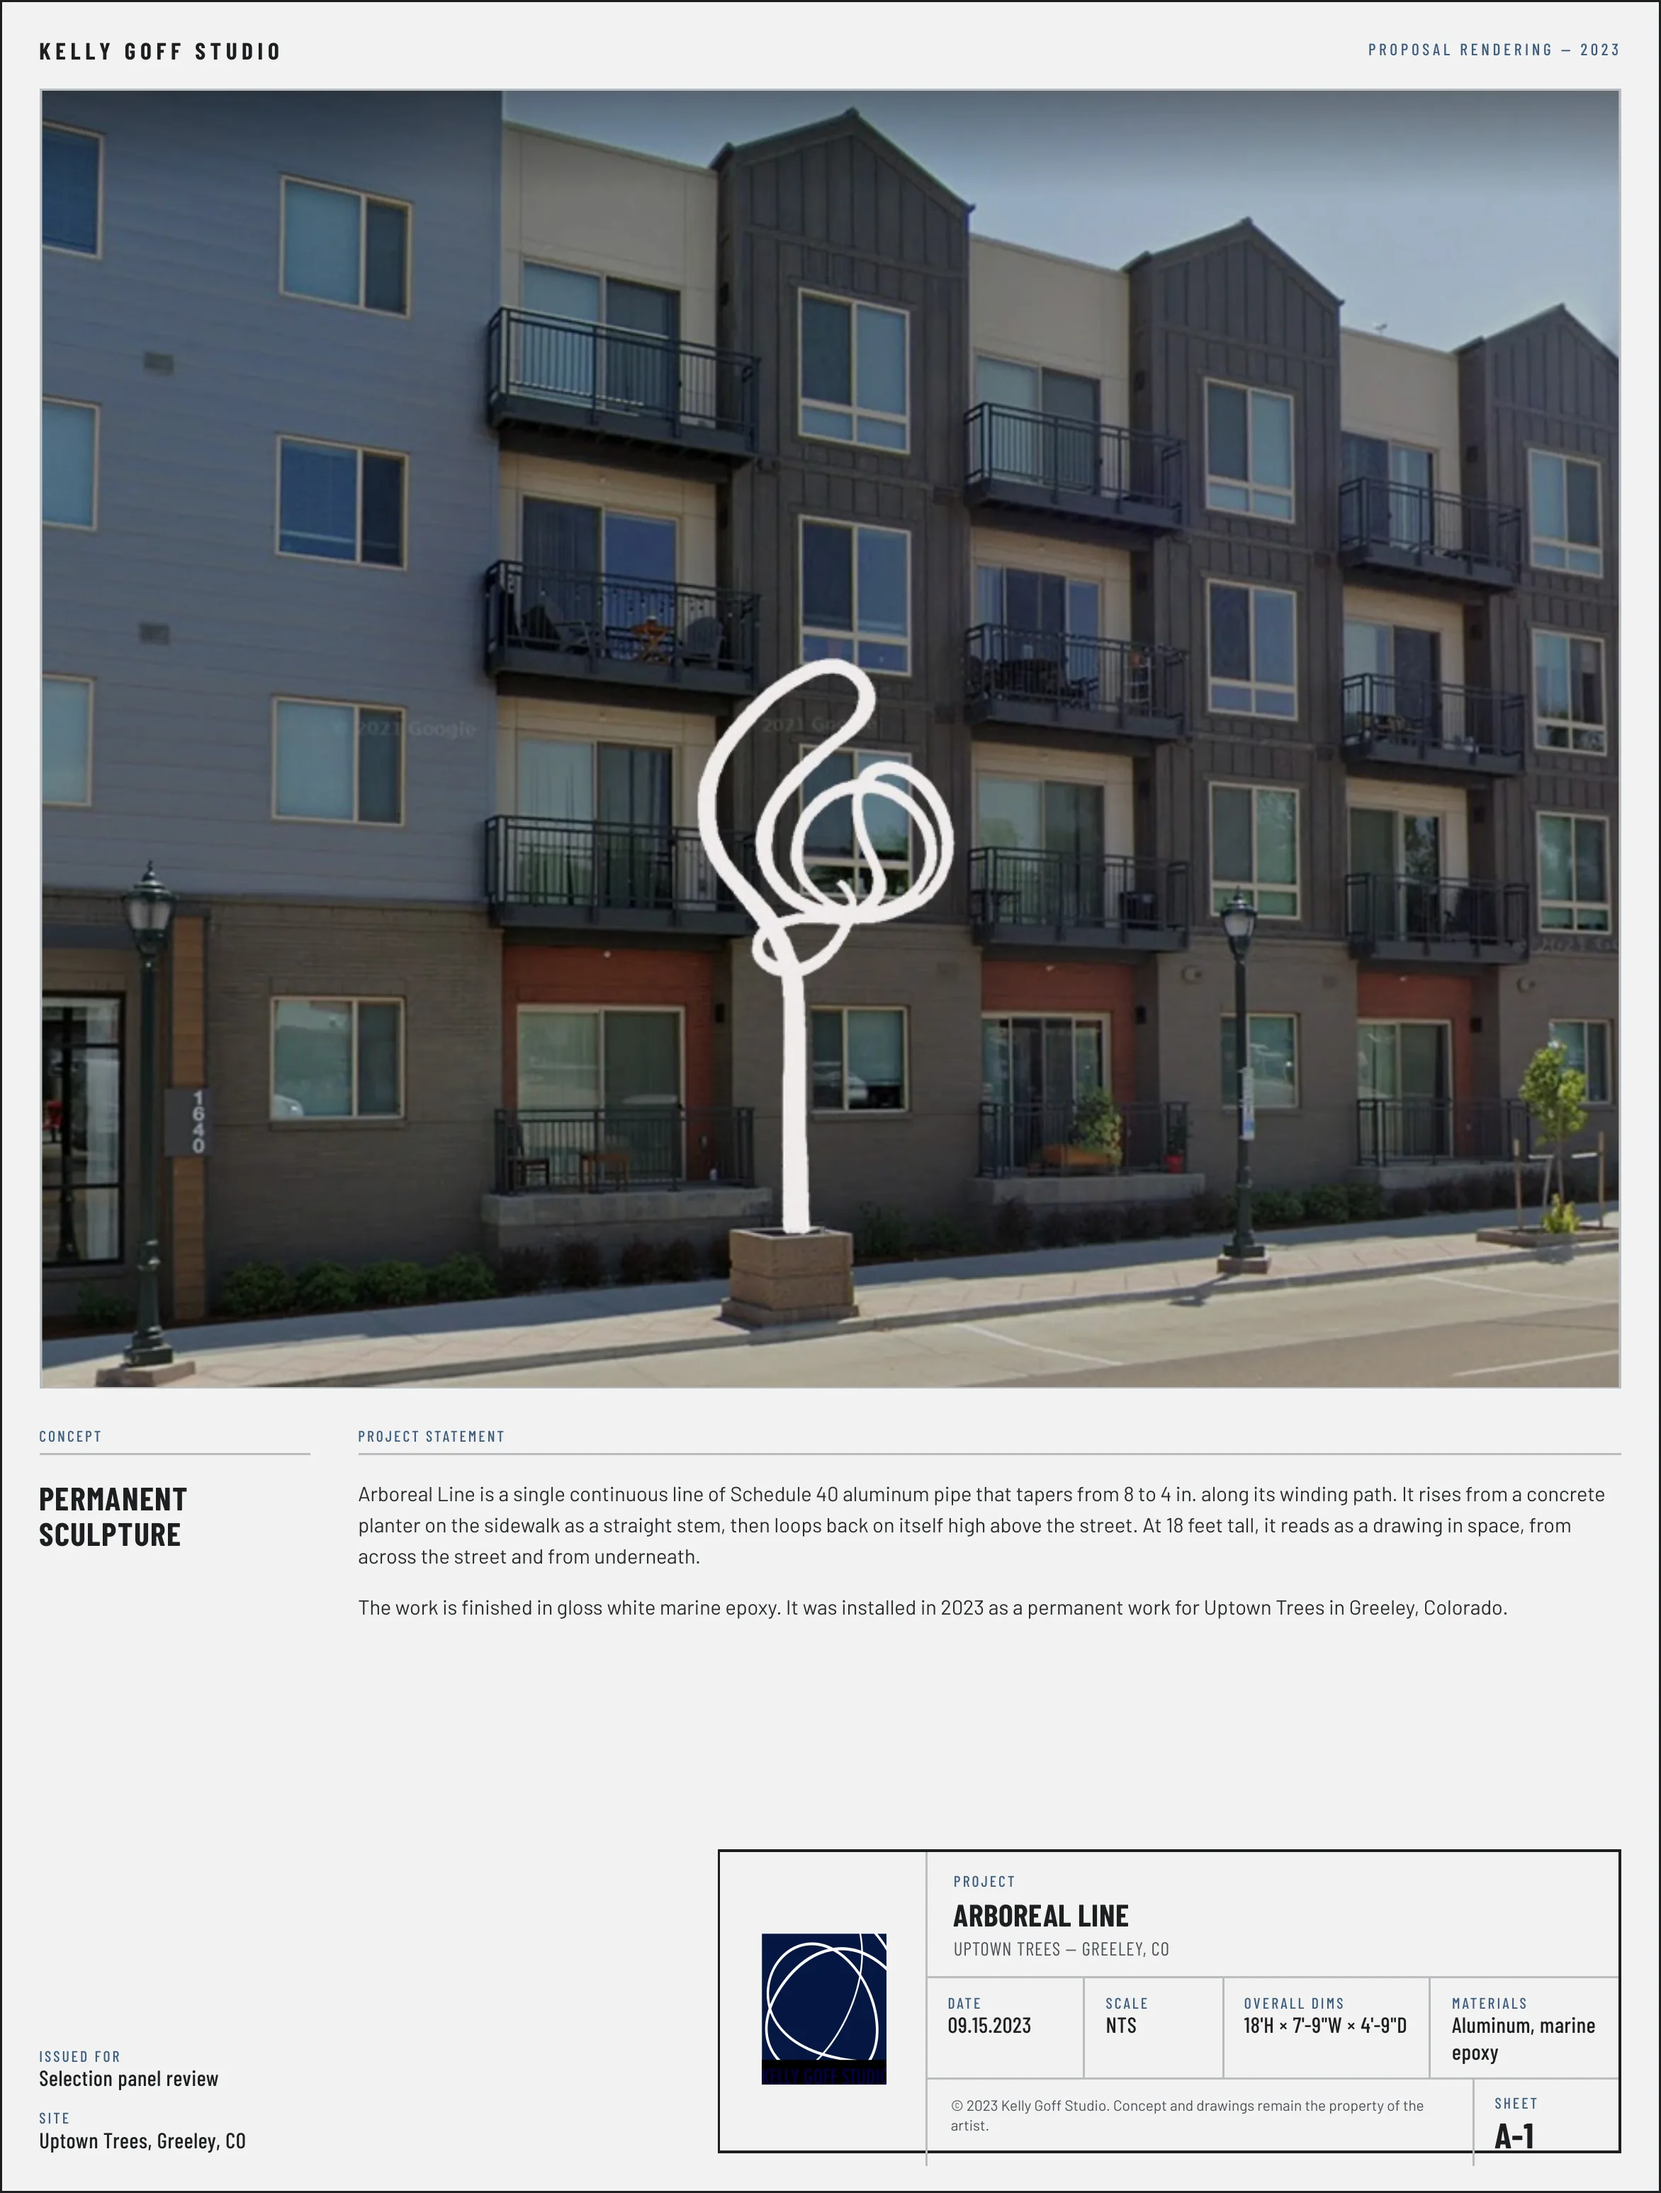
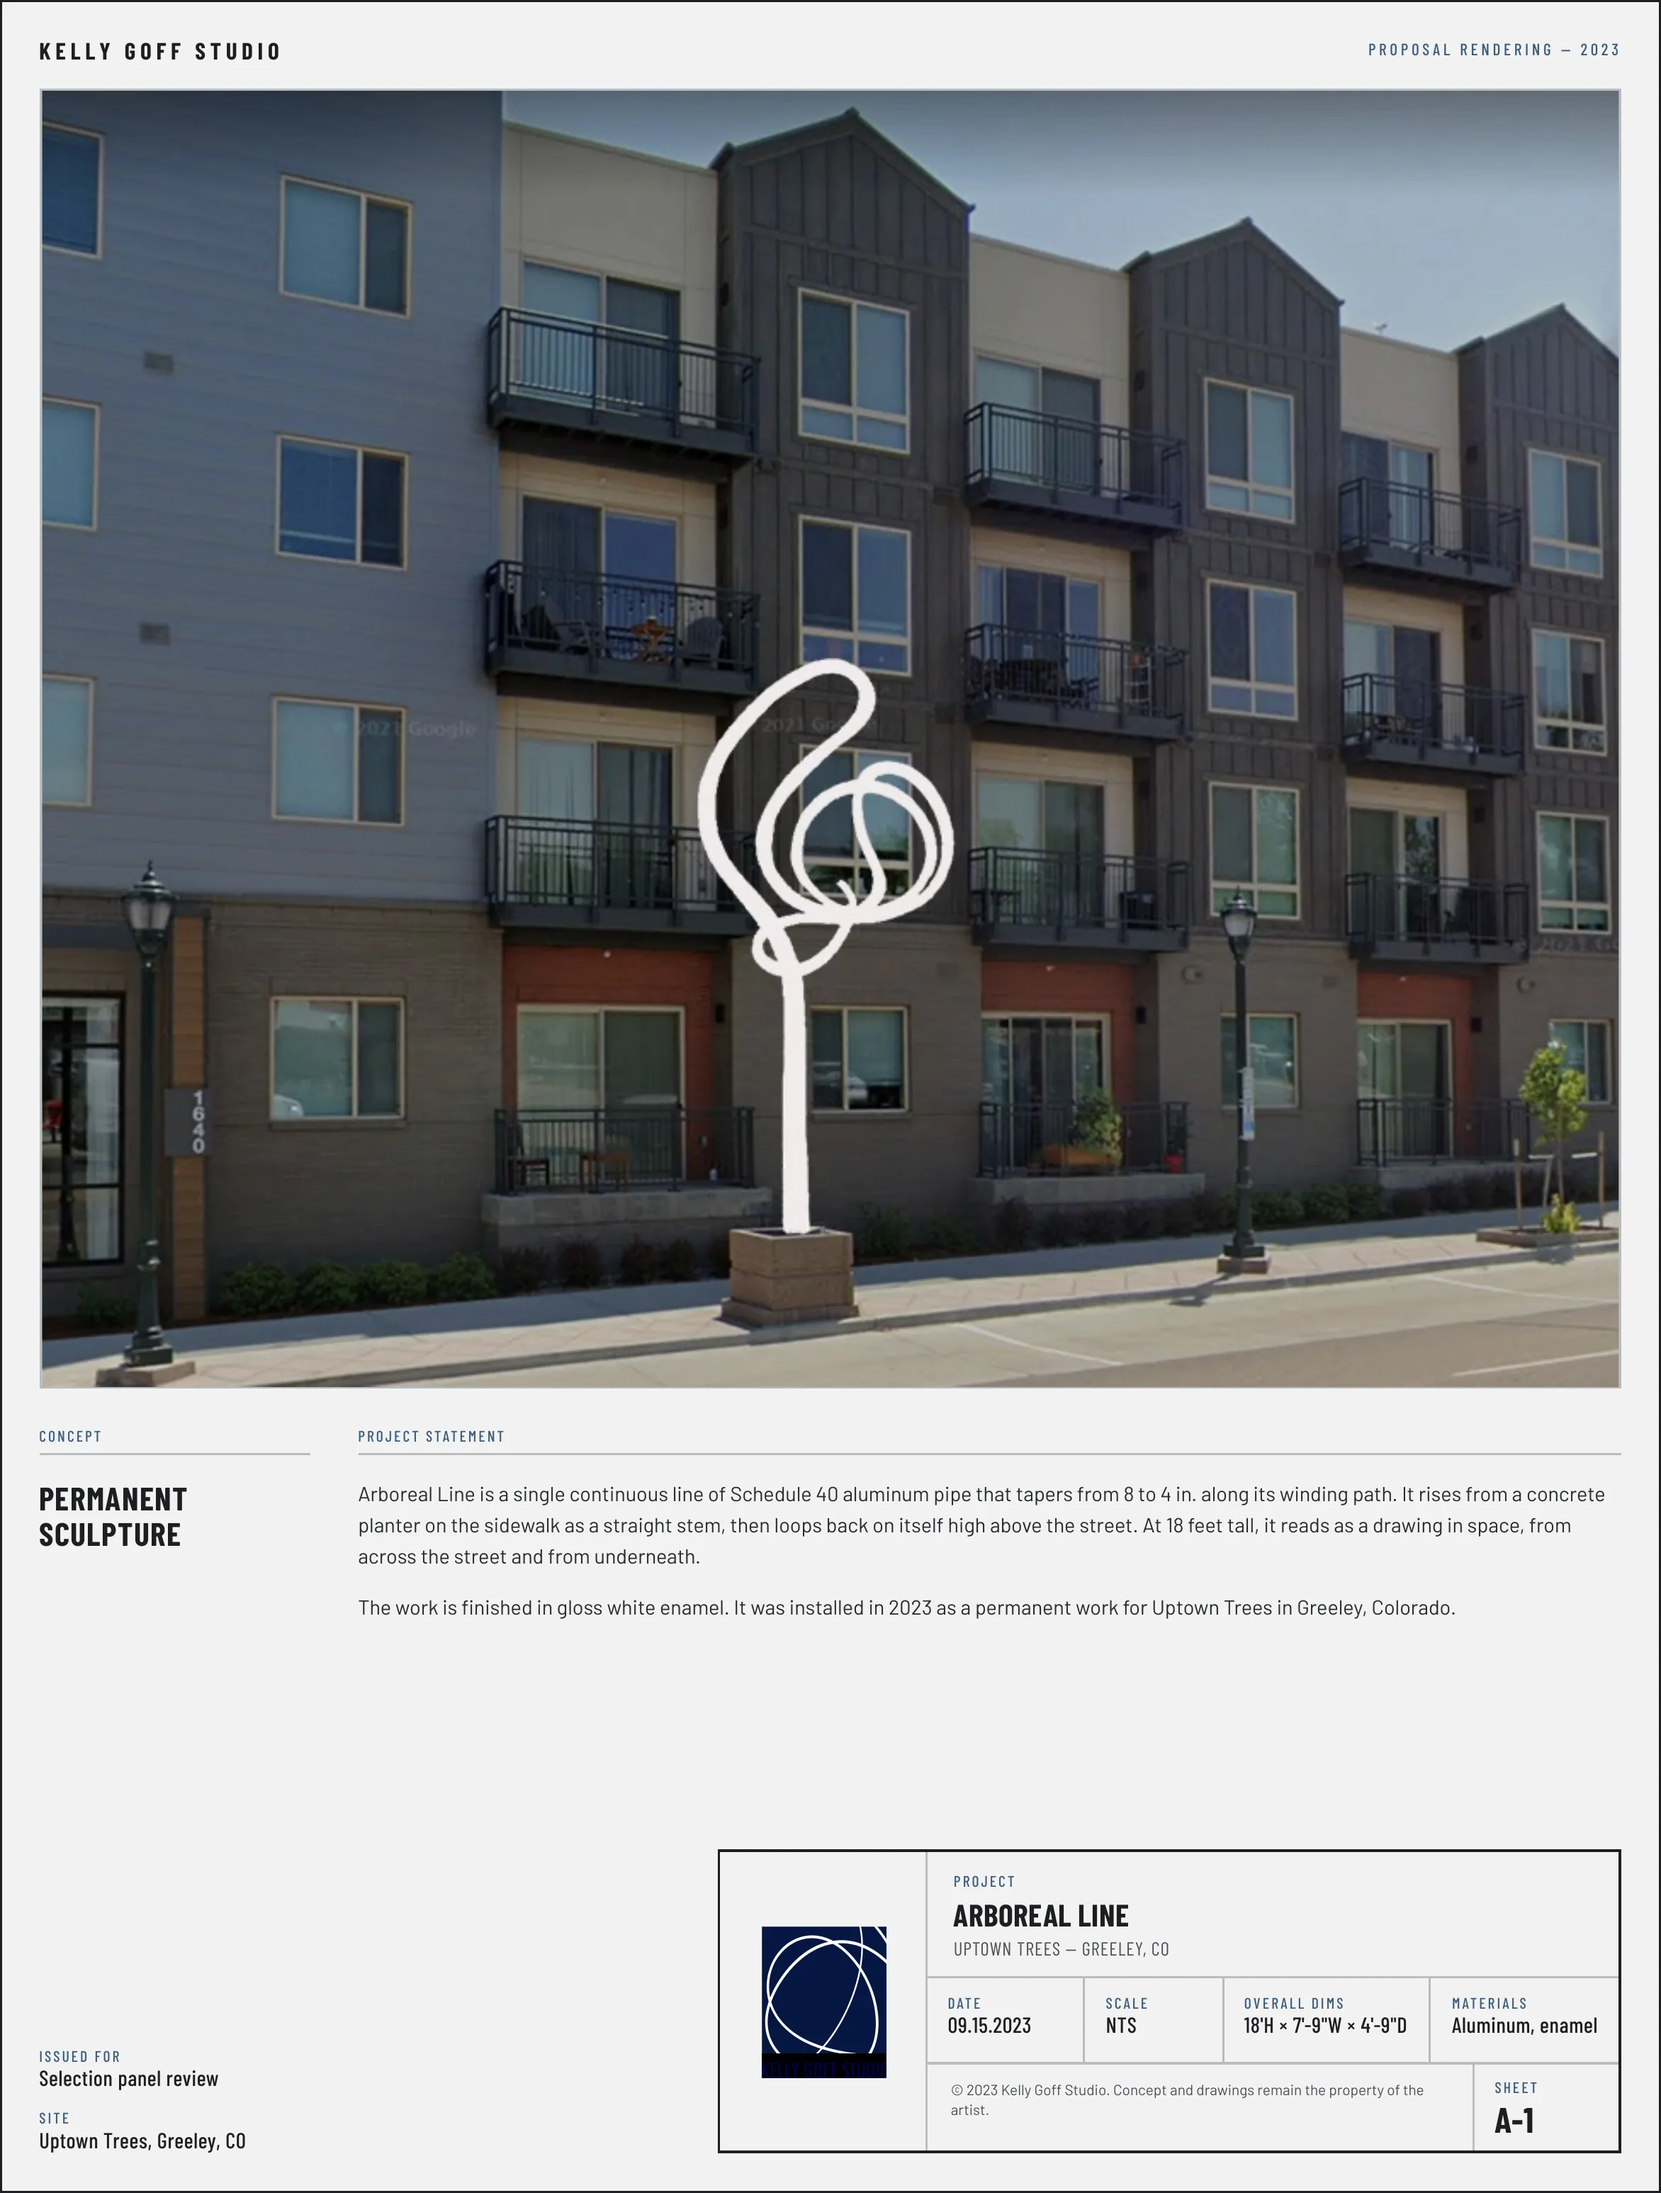
Arboreal Line sheets: enamel, not marine epoxy
Claude-Session: https://claude.ai/code/session_01Y5zLHHVNGBALbwHoLrd9Wg

diff --git a/sheets/arboreal-line/_sheet.html b/sheets/arboreal-line/_sheet.html
@@ -40,22 +40,22 @@ table td{padding:3.2pt 0;border-bottom:.5pt dotted var(--rule)}table td+td{text-
 <div class="abs hd" style="left:38pt;top:37pt">Kelly Goff Studio</div><div class="abs hdr" style="right:38pt;top:38pt">Proposal rendering — 2023</div>
 <div class="abs" style="left:38pt;right:38pt;top:55pt;height:440pt;overflow:hidden;border:.5pt solid var(--rule)"><img src="hero.jpg" style="width:100%;height:100%;object-fit:cover;object-position:50% 50%"></div>
 <div class="abs" style="left:38pt;top:508pt;width:92pt"><div class="lab" style="border-bottom:.5pt solid var(--rule);padding-bottom:3pt;margin-bottom:8pt">Concept</div><div style="font:700 11pt/1.1 BC;letter-spacing:.03em;text-transform:uppercase">Permanent sculpture</div></div>
-<div class="abs" style="left:146pt;right:38pt;top:508pt"><div class="lab" style="border-bottom:.5pt solid var(--rule);padding-bottom:3pt;margin-bottom:8pt">Project statement</div><div class="body"><p>Arboreal Line is a single continuous line of Schedule 40 aluminum pipe that tapers from 8 to 4 in. along its winding path. It rises from a concrete planter on the sidewalk as a straight stem, then loops back on itself high above the street. At 18 feet tall, it reads as a drawing in space, from across the street and from underneath.</p><p>The work is finished in gloss white marine epoxy. It was installed in 2023 as a permanent work for Uptown Trees in Greeley, Colorado.</p></div></div>
+<div class="abs" style="left:146pt;right:38pt;top:508pt"><div class="lab" style="border-bottom:.5pt solid var(--rule);padding-bottom:3pt;margin-bottom:8pt">Project statement</div><div class="body"><p>Arboreal Line is a single continuous line of Schedule 40 aluminum pipe that tapers from 8 to 4 in. along its winding path. It rises from a concrete planter on the sidewalk as a straight stem, then loops back on itself high above the street. At 18 feet tall, it reads as a drawing in space, from across the street and from underneath.</p><p>The work is finished in gloss white enamel. It was installed in 2023 as a permanent work for Uptown Trees in Greeley, Colorado.</p></div></div>
 <div class="abs" style="left:38pt;bottom:38pt;width:200pt"><div class="lab">Issued for</div><div class="val" style="margin-bottom:6pt">Selection panel review</div><div class="lab">Site</div><div class="val">Uptown Trees, Greeley, CO</div></div>
 <div class="tb"><div class="logo"><img src="logo.png"></div><div class="r">
 <div class="r1"><div class="lab">Project</div><div class="ttl">Arboreal Line</div><div class="sub">Uptown Trees — Greeley, CO</div></div>
 <div class="r2"><div><div class="lab">Date</div><div class="val">09.15.2023</div></div><div><div class="lab">Scale</div><div class="val">NTS</div></div>
-<div><div class="lab">Overall dims</div><div class="val">18&#x27;H × 7&#x27;-9&quot;W × 4&#x27;-9&quot;D</div></div><div><div class="lab">Materials</div><div class="val">Aluminum, marine epoxy</div></div></div>
+<div><div class="lab">Overall dims</div><div class="val">18&#x27;H × 7&#x27;-9&quot;W × 4&#x27;-9&quot;D</div></div><div><div class="lab">Materials</div><div class="val">Aluminum, enamel</div></div></div>
 <div class="r3"><div class="c">© 2023 Kelly Goff Studio. Concept and drawings remain the property of the artist.</div><div class="s"><div class="lab">Sheet</div><b>A-1</b></div></div></div></div></div><div class="page"><div class="frame"></div>
 <div class="abs hd" style="left:38pt;top:37pt">Orthographic Views</div><div class="abs hdr" style="right:38pt;top:38pt">Dimensions in feet and inches</div>
 <div class="abs" style="left:38pt;right:38pt;top:52pt;border-top:.5pt solid var(--rule)"></div>
 <div class="abs hdr" style="right:38pt;top:70pt;color:var(--ink)">Scale 1/4" = 1'-0"</div>
 <div class="abs" style="left:38pt;top:88pt;width:233.1pt"><div class="sec">Front</div><img src="front.png" style="margin-top:6pt;width:233.1pt;height:355.6125pt"></div><div class="abs" style="left:297.39375pt;top:88pt;width:138.26250000000002pt"><div class="sec">Left</div><img src="left.png" style="margin-top:6pt;width:138.26250000000002pt;height:355.6125pt"></div><div class="abs" style="left:461.95pt;top:88pt;width:112.05pt"><div class="sec">Right</div><img src="right.png" style="margin-top:6pt;width:112.05pt;height:355.6125pt"></div>
-<div class="abs" style="left:38pt;top:471.6125pt;width:250pt"><div class="sec">Dimension schedule</div><table style="margin-top:5pt;width:100%;border-collapse:collapse;font:500 7.2pt BC;letter-spacing:.03em"><tr><td>Overall height</td><td>18&#x27;-0&quot;</td></tr><tr><td>Overall width (front)</td><td>7&#x27;-9&quot;</td></tr><tr><td>Overall depth (side)</td><td>4&#x27;-9&quot;</td></tr><tr><td>Lowest loop above grade</td><td>10&#x27;-0&quot;</td></tr><tr><td>Pipe</td><td>Sched. 40 aluminum, 8 in. tapering to 4 in. dia.</td></tr><tr><td>Finish</td><td>Marine epoxy, gloss white</td></tr></table></div>
+<div class="abs" style="left:38pt;top:471.6125pt;width:250pt"><div class="sec">Dimension schedule</div><table style="margin-top:5pt;width:100%;border-collapse:collapse;font:500 7.2pt BC;letter-spacing:.03em"><tr><td>Overall height</td><td>18&#x27;-0&quot;</td></tr><tr><td>Overall width (front)</td><td>7&#x27;-9&quot;</td></tr><tr><td>Overall depth (side)</td><td>4&#x27;-9&quot;</td></tr><tr><td>Lowest loop above grade</td><td>10&#x27;-0&quot;</td></tr><tr><td>Pipe</td><td>Sched. 40 aluminum, 8 in. tapering to 4 in. dia.</td></tr><tr><td>Finish</td><td>Enamel, gloss white</td></tr></table></div>
 <div class="abs" style="left:38pt;bottom:38pt;width:230pt"><div style="margin-bottom:4pt;white-space:nowrap;font-size:0"><div style="display:inline-block;width:36pt;height:5pt;border:.5pt solid var(--ink);margin-left:-.5pt;background:var(--ink)"></div><div style="display:inline-block;width:36pt;height:5pt;border:.5pt solid var(--ink);margin-left:-.5pt;background:transparent"></div><div style="display:inline-block;width:36pt;height:5pt;border:.5pt solid var(--ink);margin-left:-.5pt;background:var(--ink)"></div><div style="display:inline-block;width:36pt;height:5pt;border:.5pt solid var(--ink);margin-left:-.5pt;background:transparent"></div></div>
 <div style="display:flex;justify-content:space-between;width:144pt;font:400 5.4pt BC;color:var(--navy);margin-bottom:5pt"><span>0</span><span>4'</span><span>8'</span></div><div class="body" style="font-size:5.8pt;line-height:1.4"><p>Elevations from the 2023 drawing, redrawn at 1/4&quot; = 1&#x27;-0&quot; (originally 1:30).</p><p>Dimensions as drawn; verify field conditions.</p></div></div>
 <div class="tb"><div class="logo"><img src="logo.png"></div><div class="r">
 <div class="r1"><div class="lab">Sheet title</div><div class="ttl">Elevations &amp; scale</div><div class="sub">Uptown Trees — Greeley, CO</div></div>
 <div class="r2"><div><div class="lab">Date</div><div class="val">09.15.2023</div></div><div><div class="lab">Scale</div><div class="val">1/4&quot; = 1&#x27;-0&quot;</div></div>
-<div><div class="lab">Overall dims</div><div class="val">18&#x27;H × 7&#x27;-9&quot;W × 4&#x27;-9&quot;D</div></div><div><div class="lab">Materials</div><div class="val">Aluminum, marine epoxy</div></div></div>
+<div><div class="lab">Overall dims</div><div class="val">18&#x27;H × 7&#x27;-9&quot;W × 4&#x27;-9&quot;D</div></div><div><div class="lab">Materials</div><div class="val">Aluminum, enamel</div></div></div>
 <div class="r3"><div class="c">© 2023 Kelly Goff Studio. Concept and drawings remain the property of the artist.</div><div class="s"><div class="lab">Sheet</div><b>A-2</b></div></div></div></div></div>
